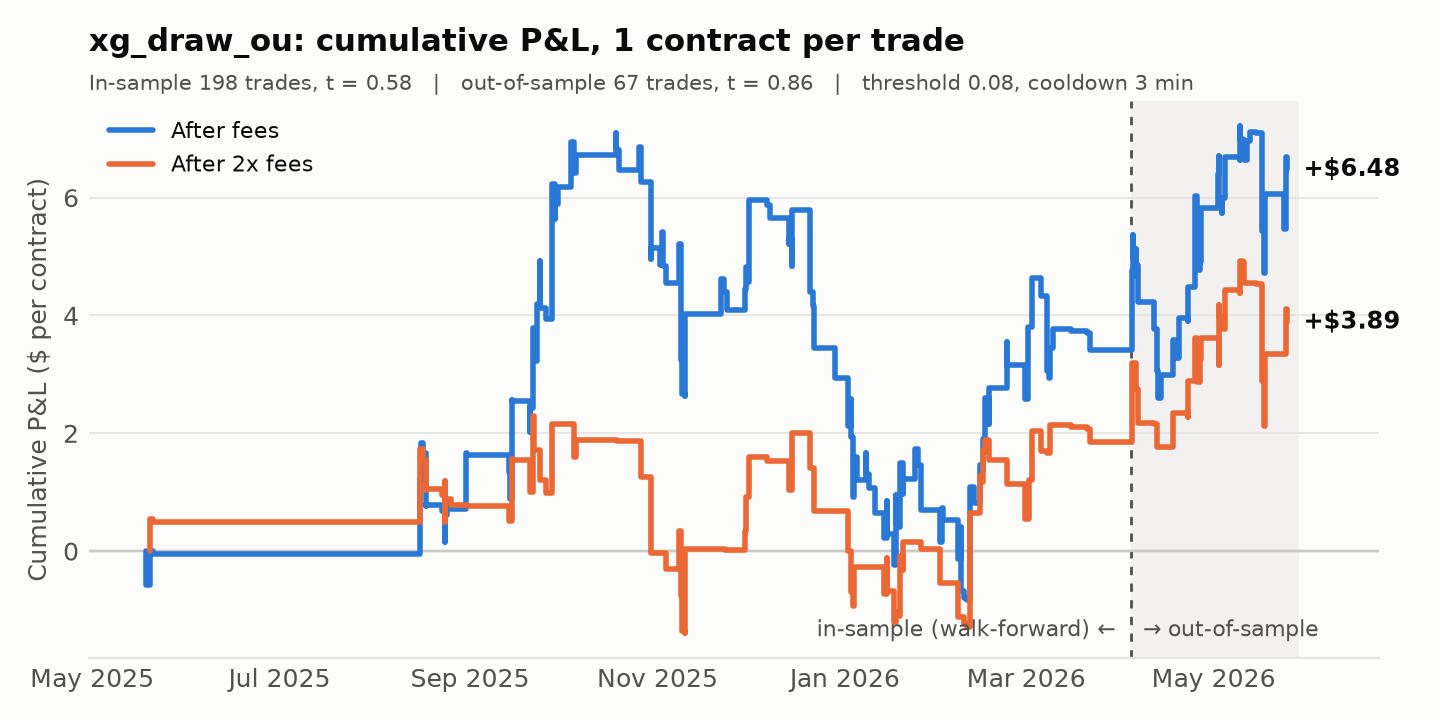
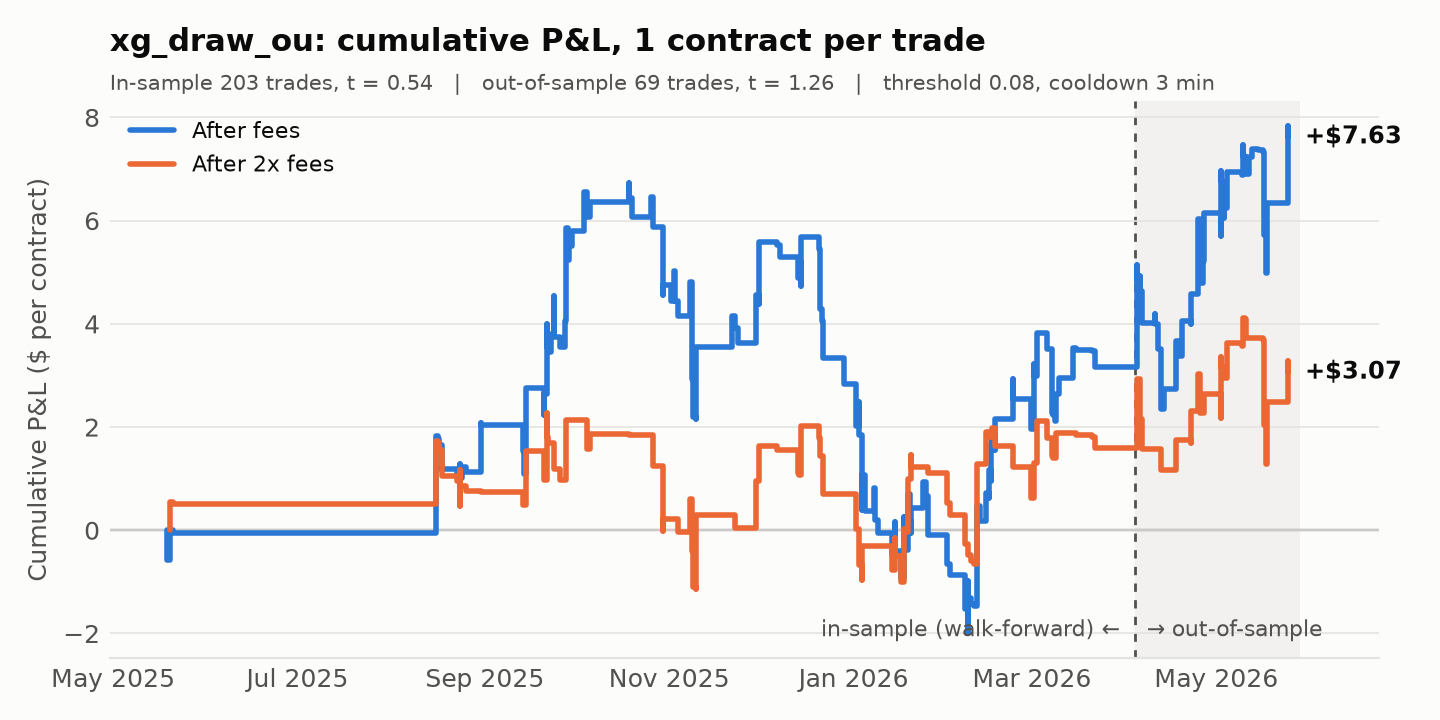
final

diff --git a/run.py b/run.py
@@ -26,20 +26,32 @@ pd.set_option("display.width", 160)
 pd.set_option("display.max_columns", 30)
 
 
-def load(data_dir):
+def load(data_dir, holdout=False):
+    """Main study = big-5 Kalshi matches before SPLIT['holdout_start'] (in-sample + OOS, split at the
+    frozen SPLIT['oos_start']). holdout=True returns every other Kalshi match instead."""
     matches, events, candles = load_canonical(data_dir)
-    kal_ids = candles.match_id.unique()
-    kal_dates = matches.set_index("match_id").loc[kal_ids, "date"].sort_values()
-    kalshi_start = kal_dates.min()
-    oos_start = kal_dates.iloc[int(len(kal_dates) * (1 - config.SPLIT["oos_frac"]))]
-    print(f"Kalshi matches: {len(kal_ids)} | first {kalshi_start.date()} | "
-          f"OOS from {oos_start.date()} (most recent {config.SPLIT['oos_frac']:.0%})")
+    info = matches.set_index("match_id")
+    kalshi_start, oos_start = pd.Timestamp(config.SPLIT["kalshi_start"]), pd.Timestamp(config.SPLIT["oos_start"])
+    main = (candles.match_id.map(info.league).isin(config.LEAGUES_MAIN)
+            & (candles.match_id.map(info.date) < pd.Timestamp(config.SPLIT["holdout_start"]))).to_numpy()
+    candles = candles[~main] if holdout else candles[main]
+    d = info.loc[candles.match_id.unique(), "date"]
+    print(f"Kalshi matches ({'holdout' if holdout else 'main study'}): {len(d)} | first {d.min().date()} | "
+          f"OOS from {oos_start.date()} (frozen)")
     return matches, events, candles, kalshi_start, oos_start
+
+
+def train_matches(matches):
+    """Model history: Transfermarkt matches of the locked training leagues (never ESPN-only rows)."""
+    keep = matches.league.isin(config.TRAIN_LEAGUES)
+    if "src" in matches:
+        keep &= matches.src.eq("tm")
+    return matches[keep]
 
 
 def fit_model(matches, events, kalshi_start, fset, kind, C, val=True):
     feats = config.FEATURE_SETS[fset]
-    snaps = training_snapshots(matches, events, kalshi_start, config.TRAIN_MINUTES)
+    snaps = training_snapshots(train_matches(matches), events, kalshi_start, config.TRAIN_MINUTES)
     vstart = pd.Timestamp(config.SPLIT["val_start"])
     tr, va = snaps[snaps.date < vstart], snaps[snaps.date >= vstart]
     if val and len(va) and len(tr):
@@ -66,7 +78,8 @@ def walkforward_probs(matches, events, c, fset, kind, C):
     """Retrain at the start of every calendar month on all matches dated before that month
     (football data only, never Kalshi prices), then predict that month's candles."""
     feats = config.FEATURE_SETS[fset]
-    snaps = training_snapshots(matches, events, c.date.max() + pd.Timedelta(days=1), config.TRAIN_MINUTES)
+    snaps = training_snapshots(train_matches(matches), events, c.date.max() + pd.Timedelta(days=1),
+                               config.TRAIN_MINUTES)
     month = pd.to_datetime(c.date).dt.to_period("M").dt.to_timestamp()
     out = pd.Series(np.nan, index=c.index)
     for ms in sorted(month.unique()):
@@ -140,9 +153,31 @@ def save_model(model, a, kstart):
     print(f"\nsaved model -> {name}.pkl (+ _weights.csv, _info.json)")
 
 
+def holdout(a):
+    """Locked strategy on data never used to build it, ONCE per set: big-5 2026/27 games and the
+    extra leagues. Logged to results/holdout_runs.log."""
+    matches, events, candles, kstart, oos_start = load(a.data, holdout=True)
+    c = kalshi_frame(candles, matches, events, a.data)
+    f = f"{config.PATHS['results']}/holdout_runs.log"
+    done = open(f).read() if os.path.exists(f) else ""
+    params = bt_params(a)
+    sets = {"big5_2026_27": c[c.league.isin(config.LEAGUES_MAIN)],
+            "extra_leagues": c[c.league.isin(config.LEAGUES_EXTRA)]}
+    for name, x in sets.items():
+        if f'"holdout": "{name}"' in done:
+            print(f"!!! holdout {name} was already evaluated; this rerun must be disclosed")
+        print(f"\n===== HOLDOUT {name}: {x.match_id.nunique()} matches, {x.date.min().date()} .. {x.date.max().date()}")
+        tr, m1, m2 = report(x, model_probs(matches, events, kstart, x, a), params, f"HOLDOUT {name} {a.set}")
+        os.makedirs(config.PATHS["results"], exist_ok=True)
+        with open(f, "a") as fh:
+            fh.write(json.dumps(dict(time=datetime.now().isoformat(timespec="seconds"), holdout=name, set=a.set,
+                                     retrain=a.retrain, params=params, result=m1, result_x2=m2), default=str) + "\n")
+        tr.to_csv(f"{config.PATHS['results']}/trades_HOLDOUT_{name}_{a.set}.csv", index=False)
+
+
 def main():
     ap = argparse.ArgumentParser()
-    ap.add_argument("cmd", choices=["build", "fit", "backtest", "grid", "oos"])
+    ap.add_argument("cmd", choices=["build", "fit", "backtest", "grid", "oos", "holdout"])
     ap.add_argument("--data", default=config.PATHS["canonical"])
     ap.add_argument("--set", default=config.MODEL["feature_set"])
     ap.add_argument("--kind", default=config.MODEL["kind"])
@@ -157,6 +192,8 @@ def main():
     if a.cmd == "build":
         return build_canonical()
 
+    if a.cmd == "holdout":
+        return holdout(a)
     matches, events, candles, kstart, oos_start = load(a.data)
 
     if a.cmd == "fit":

diff --git a/data.py b/data.py
@@ -19,13 +19,16 @@ import unicodedata
 import numpy as np
 import pandas as pd
 
-from config import PATHS, TIME, SPLIT, RECENT_XG_WINDOW
+from config import PATHS, TIME, SPLIT, RECENT_XG_WINDOW, TRAIN_LEAGUES
 
-LEAGUE_TM = {"GB1": "EPL", "ES1": "LALIGA", "L1": "BUNDESLIGA", "IT1": "SERIEA", "FR1": "LIGUE1"}
+LEAGUE_TM = {"GB1": "EPL", "ES1": "LALIGA", "L1": "BUNDESLIGA", "IT1": "SERIEA", "FR1": "LIGUE1",
+             "PO1": "PORTUGAL", "NL1": "EREDIVISIE"}
 LEAGUE_FD = {"ENG-Premier League": "EPL", "ESP-La Liga": "LALIGA", "GER-Bundesliga": "BUNDESLIGA",
-             "ITA-Serie A": "SERIEA", "FRA-Ligue 1": "LIGUE1"}
+             "ITA-Serie A": "SERIEA", "FRA-Ligue 1": "LIGUE1",
+             "POR-Liga Portugal": "PORTUGAL", "NED-Eredivisie": "EREDIVISIE"}
 LEAGUE_KALSHI = {"KXEPLGAME": "EPL", "KXLALIGAGAME": "LALIGA", "KXBUNDESLIGAGAME": "BUNDESLIGA",
-                 "KXSERIEAGAME": "SERIEA", "KXLIGUE1GAME": "LIGUE1"}
+                 "KXSERIEAGAME": "SERIEA", "KXLIGUE1GAME": "LIGUE1",
+                 "KXLIGAPORTUGALGAME": "PORTUGAL", "KXEREDIVISIEGAME": "EREDIVISIE"}
 
 # --------------------------------------------------------------------------- names
 STOP = {"fc", "afc", "cf", "sc", "ac", "as", "ssc", "ss", "us", "rc", "rcd", "cd", "ud", "sd",
@@ -243,6 +246,8 @@ OU_OPENING = [("P>2.5", "P<2.5"), ("Avg>2.5", "Avg<2.5"), ("B365>2.5", "B365<2.5
 
 def load_football_data(path=None, which="closing"):
     df = pd.read_parquet(path or PATHS["fd_games"]).reset_index()
+    if path is None and os.path.exists(PATHS["fd_extra"]):          # extra leagues, same layout
+        df = pd.concat([df, pd.read_parquet(PATHS["fd_extra"])], ignore_index=True)
     cols = {c.lower(): c for c in df.columns}
     need = {k: cols.get(k) for k in ("league", "date", "home_team", "away_team")}
     if None in need.values():
@@ -290,6 +295,34 @@ def load_xg_shots(path=None):
     if not os.path.exists(path):
         return None
     return pd.read_parquet(path)
+
+
+# --------------------------------------------------------------------------- matches Transfermarkt lacks
+def espn_only_matches(matches, games_path="espn_games.parquet"):
+    """Finished games from ESPN (Kalshi dates) that no Transfermarkt match covers, e.g. the 2026/27
+    season, which the Transfermarkt dataset doesn't have yet. Result from ESPN; odds / events are
+    attached later like any match. src='espn': used for trading evaluation only, never training."""
+    if not os.path.exists(games_path):
+        return matches.iloc[:0]
+    g = pd.read_parquet(games_path)
+    g = g[g.league.isin(set(matches.league))].copy()
+    g["key"] = g.espn_id
+    g["date"] = pd.to_datetime(g.scheduled, utc=True).dt.tz_convert(None).dt.normalize()
+    right = matches.rename(columns={"match_id": "key"})[["key", "league", "date", "home", "away"]]
+    link = match_games(g, right, allow_swap=True)
+    last = matches.groupby("league").date.max()
+    g = g[~g.key.isin(link) & (g.date > g.league.map(last))]    # only past Transfermarkt's coverage
+    hg, ag = pd.to_numeric(g.home_score, errors="coerce"), pd.to_numeric(g.away_score, errors="coerce")
+    out = pd.DataFrame({"match_id": "espn" + g.espn_id.astype(str), "league": g.league,
+                        "season": g.date.dt.year.where(g.date.dt.month >= 7, g.date.dt.year - 1).astype(str),
+                        "date": g.date, "home": g.home, "away": g.away,
+                        "home_goals": hg, "away_goals": ag}).dropna(subset=["home_goals", "away_goals"])
+    out[["home_goals", "away_goals"]] = out[["home_goals", "away_goals"]].astype(int)
+    out["result"] = np.select([out.home_goals > out.away_goals, out.home_goals < out.away_goals], ["H", "A"], "D")
+    out["src"] = "espn"
+    print(f"  [espn] {len(out)} finished games after Transfermarkt's coverage added as evaluation-only matches: "
+          f"{out.groupby('league').size().to_dict()}")
+    return out
 
 
 # --------------------------------------------------------------------------- ESPN real-time timelines
@@ -377,7 +410,8 @@ def load_espn_shots(matches, path="espn_shots.parquet"):
     s = s.dropna(subset=["side"])
 
     d = matches.set_index("match_id").date
-    fit = s[pd.to_datetime(d.loc[s.match_id].to_numpy()) < pd.Timestamp(SPLIT["val_start"])]
+    fit = s[(pd.to_datetime(d.loc[s.match_id].to_numpy()) < pd.Timestamp(SPLIT["val_start"]))
+            & s.league.isin(TRAIN_LEAGUES)]
     table = fit.groupby("cat").goal.mean()
     s["xg"] = s.cat.map(table).fillna(fit.goal.mean())
     print(f"  [shots] {len(s)} shots in {s.match_id.nunique()} matches; xG by category "
@@ -468,7 +502,9 @@ def build_canonical():
     os.makedirs(PATHS["canonical"], exist_ok=True)
     print("loading Transfermarkt...")
     m, events = load_transfermarkt()
+    m["src"] = "tm"
     print(f"  {len(m)} matches, {len(events)} goal/red events")
+    m = pd.concat([m, espn_only_matches(m)], ignore_index=True)
 
     print("loading Football-Data odds...")
     from config import ODDS

diff --git a/download_data.py b/download_data.py
@@ -3,16 +3,19 @@ Download the model's training sources (no Kalshi data here; see pull_big5.py for
 
     python download_data.py            # both sources
     python download_data.py --tm       # Transfermarkt only
-    python download_data.py --fd       # Football-Data only
+    python download_data.py --fd       # Football-Data only (big 5, via soccerdata)
+    python download_data.py --fd-extra # Football-Data CSVs for the extra leagues
 
 Outputs (paths from config.PATHS, all git-ignored):
   transfermarkt-datasets.duckdb   results, goal/card minutes, lineups, player values
                                   (github.com/dcaribou/transfermarkt-datasets, CC0)
   football_data_games.parquet     pre-match odds + kickoff times (football-data.co.uk via soccerdata)
+  football_data_extra.parquet     same for the extra leagues (direct CSV download, same column layout)
 """
 import argparse
 import os
 
+import pandas as pd
 import requests
 
 from config import PATHS, SPLIT
@@ -38,6 +41,40 @@ def download_tm(path=PATHS["tm_duckdb"]):
     print()
 
 
+FD_EXTRA = {"P1": "POR-Liga Portugal", "N1": "NED-Eredivisie"}   # leagues with full ESPN detail
+
+
+def download_fd_extra(path=PATHS["fd_extra"]):
+    import io
+    frames = []
+    for y in range(SPLIT["tm_start_season"], LAST_SEASON + 1):
+        season = f"{y % 100:02d}{(y + 1) % 100:02d}"
+        for code, league in FD_EXTRA.items():
+            r = requests.get(f"https://www.football-data.co.uk/mmz4281/{season}/{code}.csv", timeout=60)
+            if r.status_code != 200:
+                continue
+            df = pd.read_csv(io.BytesIO(r.content), encoding="latin-1", on_bad_lines="skip")
+            df.columns = [c.replace("\ufeff", "").replace("ï»¿", "") for c in df.columns]
+            df = df.dropna(subset=["HomeTeam", "AwayTeam", "Date"])
+            day = pd.to_datetime(df.Date, dayfirst=True, errors="coerce")
+            hm = df["Time"].fillna("12:00").astype(str) if "Time" in df else "12:00"   # 12:00 = no time
+            date = pd.to_datetime(day.dt.strftime("%Y-%m-%d") + " " + hm, errors="coerce").fillna(day + pd.Timedelta(hours=12))
+            out = df.drop(columns=["Div", "Date", "HomeTeam", "AwayTeam"] + (["Time"] if "Time" in df else []))
+            out.insert(0, "date", date)
+            out.insert(1, "home_team", df.HomeTeam)
+            out.insert(2, "away_team", df.AwayTeam)
+            out.insert(0, "season", season)
+            out.insert(0, "league", league)
+            frames.append(out)
+            print(f"  {league} {season}: {len(out)} games")
+    fd = pd.concat(frames, ignore_index=True)
+    fd = fd[[c for c in fd.columns if not c.startswith("Unnamed")]]
+    for c in fd.columns[5:]:
+        fd[c] = pd.to_numeric(fd[c], errors="coerce") if fd[c].dtype == object else fd[c]
+    fd.to_parquet(path)
+    print(f"Football-Data extra leagues -> {path}: {len(fd)} games")
+
+
 def download_fd(path=PATHS["fd_games"]):
     import soccerdata as sd
     seasons = [f"{y % 100:02d}{(y + 1) % 100:02d}" for y in range(SPLIT["tm_start_season"], LAST_SEASON + 1)]
@@ -51,9 +88,12 @@ if __name__ == "__main__":
     ap = argparse.ArgumentParser()
     ap.add_argument("--tm", action="store_true")
     ap.add_argument("--fd", action="store_true")
+    ap.add_argument("--fd-extra", action="store_true")
     a = ap.parse_args()
-    both = not (a.tm or a.fd)
+    both = not (a.tm or a.fd or a.fd_extra)
     if a.tm or both:
         download_tm()
     if a.fd or both:
         download_fd()
+    if a.fd_extra or both:
+        download_fd_extra()

diff --git a/config.py b/config.py
@@ -8,6 +8,7 @@ PATHS = dict(
     canonical="data/canonical",                    # output of `python run.py build`
     tm_duckdb="transfermarkt-datasets.duckdb",
     fd_games="football_data_games.parquet",        # soccerdata MatchHistory output
+    fd_extra="football_data_extra.parquet",        # extra leagues, direct football-data.co.uk CSVs
     kalshi_markets="big5_markets.parquet",
     kalshi_candles="big5_candles.parquet",
     xg_shots="xg_shots.parquet",                   # optional, see data.load_xg_shots
@@ -24,9 +25,21 @@ TIME = dict(
     kickoff_from_close=122,  # fallback only: kickoff ~= market close_time minus this many minutes
 )
 
+# Big-5 = the leagues the strategy was built and tuned on. Extra leagues are a fresh holdout only.
+LEAGUES_MAIN = ["EPL", "LALIGA", "BUNDESLIGA", "SERIEA", "LIGUE1"]
+# Turkey, Belgium, Greece, Scotland were dropped before any results: ESPN has no shot commentary or
+# real 2nd-half start times for them, so the locked model's inputs (live xG, real clock) don't exist.
+LEAGUES_EXTRA = ["PORTUGAL", "EREDIVISIE"]
+TRAIN_LEAGUES = LEAGUES_MAIN          # model history (locked): big-5 Transfermarkt matches only
+
 SPLIT = dict(
     val_start="2024-07-01",  # training matches before this, validation from here to first Kalshi match
     oos_frac=0.20,           # most recent 20% of Kalshi matches are out-of-sample (track rule)
+    # dates frozen when the split was first computed on the big-5 Kalshi matches (1,758 matched),
+    # so adding data later can't move them. Holdout = anything not used to build the strategy.
+    kalshi_start="2025-05-11",
+    oos_start="2026-04-04",
+    holdout_start="2026-07-01",   # big-5 2026/27 games -> holdout
     tm_start_season=2015,
 )
 

diff --git a/download_espn.py b/download_espn.py
@@ -17,9 +17,11 @@ import requests
 from config import PATHS
 
 BASE = "https://site.api.espn.com/apis/site/v2/sports/soccer"
-ESPN_LEAGUE = {"EPL": "eng.1", "LALIGA": "esp.1", "BUNDESLIGA": "ger.1", "SERIEA": "ita.1", "LIGUE1": "fra.1"}
+ESPN_LEAGUE = {"EPL": "eng.1", "LALIGA": "esp.1", "BUNDESLIGA": "ger.1", "SERIEA": "ita.1", "LIGUE1": "fra.1",
+               "PORTUGAL": "por.1", "EREDIVISIE": "ned.1"}
 KALSHI_LEAGUE = {"KXEPLGAME": "EPL", "KXLALIGAGAME": "LALIGA", "KXBUNDESLIGAGAME": "BUNDESLIGA",
-                 "KXSERIEAGAME": "SERIEA", "KXLIGUE1GAME": "LIGUE1"}
+                 "KXSERIEAGAME": "SERIEA", "KXLIGUE1GAME": "LIGUE1",
+                 "KXLIGAPORTUGALGAME": "PORTUGAL", "KXEREDIVISIEGAME": "EREDIVISIE"}
 S = requests.Session()
 
 
@@ -37,6 +39,7 @@ def get(path, **params):
 def kalshi_dates():
     mk = pd.read_parquet(PATHS["kalshi_markets"])
     mk["league"] = mk.series.map(KALSHI_LEAGUE)
+    mk = mk[mk.league.notna()]
     d = mk.event_ticker.str.extract(r"-(\d{2})([A-Z]{3})(\d{2})")
     tick = pd.to_datetime("20" + d[0] + d[1].str.title() + d[2], format="%Y%b%d", errors="coerce")
     close = pd.to_datetime(mk.close_time, format="ISO8601").dt.tz_convert(None).dt.normalize()

diff --git a/model.py b/model.py
@@ -34,9 +34,12 @@ class WinProbModel:
             print(f"  [model] dropped {dropped:.0%} of training rows with missing features "
                   f"(check which inputs are missing for this feature set)")
         X, y = X[ok], snaps.loc[ok, "result"].map({c: i for i, c in enumerate(CLASSES)})
+        order = np.lexsort([snaps.loc[ok, "minute"].to_numpy(), snaps.loc[ok, "match_id"].astype(str).to_numpy()]) \
+            if {"match_id", "minute"} <= set(snaps.columns) else np.arange(len(X))
+        X, y = X.iloc[order], y.iloc[order]        # fixed row order: fit doesn't depend on table order
         if self.kind == "logit":
             self.pipe = make_pipeline(StandardScaler(),
-                                      LogisticRegression(C=self.C, max_iter=3000))
+                                      LogisticRegression(C=self.C, max_iter=10000, tol=1e-8))
             self.pipe.fit(X, y)
         elif self.kind == "ols":
             self.pipe = make_pipeline(StandardScaler(), LinearRegression())

diff --git a/download_espn_shots.py b/download_espn_shots.py
@@ -47,7 +47,12 @@ def shots(g):
 def main(workers=8):
     m = pd.read_parquet(f"{PATHS['canonical']}/matches.parquet")
     m = m[pd.to_datetime(m.date) >= START]
-    items = sorted({(lg, d.strftime("%Y%m%d")) for lg, d in zip(m.league, pd.to_datetime(m.date))})
+    items = {(lg, d.strftime("%Y%m%d")) for lg, d in zip(m.league, pd.to_datetime(m.date))}
+    if os.path.exists("espn_games.parquet"):         # Kalshi-date games, incl. ones Transfermarkt lacks
+        eg = pd.read_parquet("espn_games.parquet")
+        items |= {(lg, d.strftime("%Y%m%d")) for lg, d in
+                  zip(eg.league, pd.to_datetime(eg.scheduled, utc=True).dt.tz_convert(None))}
+    items = sorted(i for i in items if i[0] in ESPN_LEAGUE)
     print(f"ESPN scoreboards: {len(items)} league-days since {START}")
     with ThreadPoolExecutor(workers) as ex:
         games = pd.DataFrame([r for rows in ex.map(scoreboard, items) for r in rows]).drop_duplicates("espn_id")

diff --git a/diagnose_walkforward.py b/diagnose_walkforward.py
@@ -14,7 +14,7 @@ import pandas as pd
 import config
 from data import training_snapshots
 from model import WinProbModel
-from run import kalshi_frame, load, predict_outcome
+from run import kalshi_frame, load, predict_outcome, train_matches
 
 ap = argparse.ArgumentParser()
 ap.add_argument("--set", default=config.MODEL["feature_set"])
@@ -24,7 +24,7 @@ matches, events, candles, kstart, oos_start = load(config.PATHS["canonical"])
 c = kalshi_frame(candles, matches, events, config.PATHS["canonical"])
 c = c[(c.date < oos_start)].copy()
 feats = config.FEATURE_SETS[a.set]
-snaps = training_snapshots(matches, events, oos_start, config.TRAIN_MINUTES)
+snaps = training_snapshots(train_matches(matches), events, oos_start, config.TRAIN_MINUTES)
 c["month"] = pd.to_datetime(c.date).dt.to_period("M").dt.to_timestamp()
 ll = lambda p, y: -(y * np.log(np.clip(p, 1e-4, 1 - 1e-4)) + (1 - y) * np.log(np.clip(1 - p, 1e-4, 1 - 1e-4)))
 
